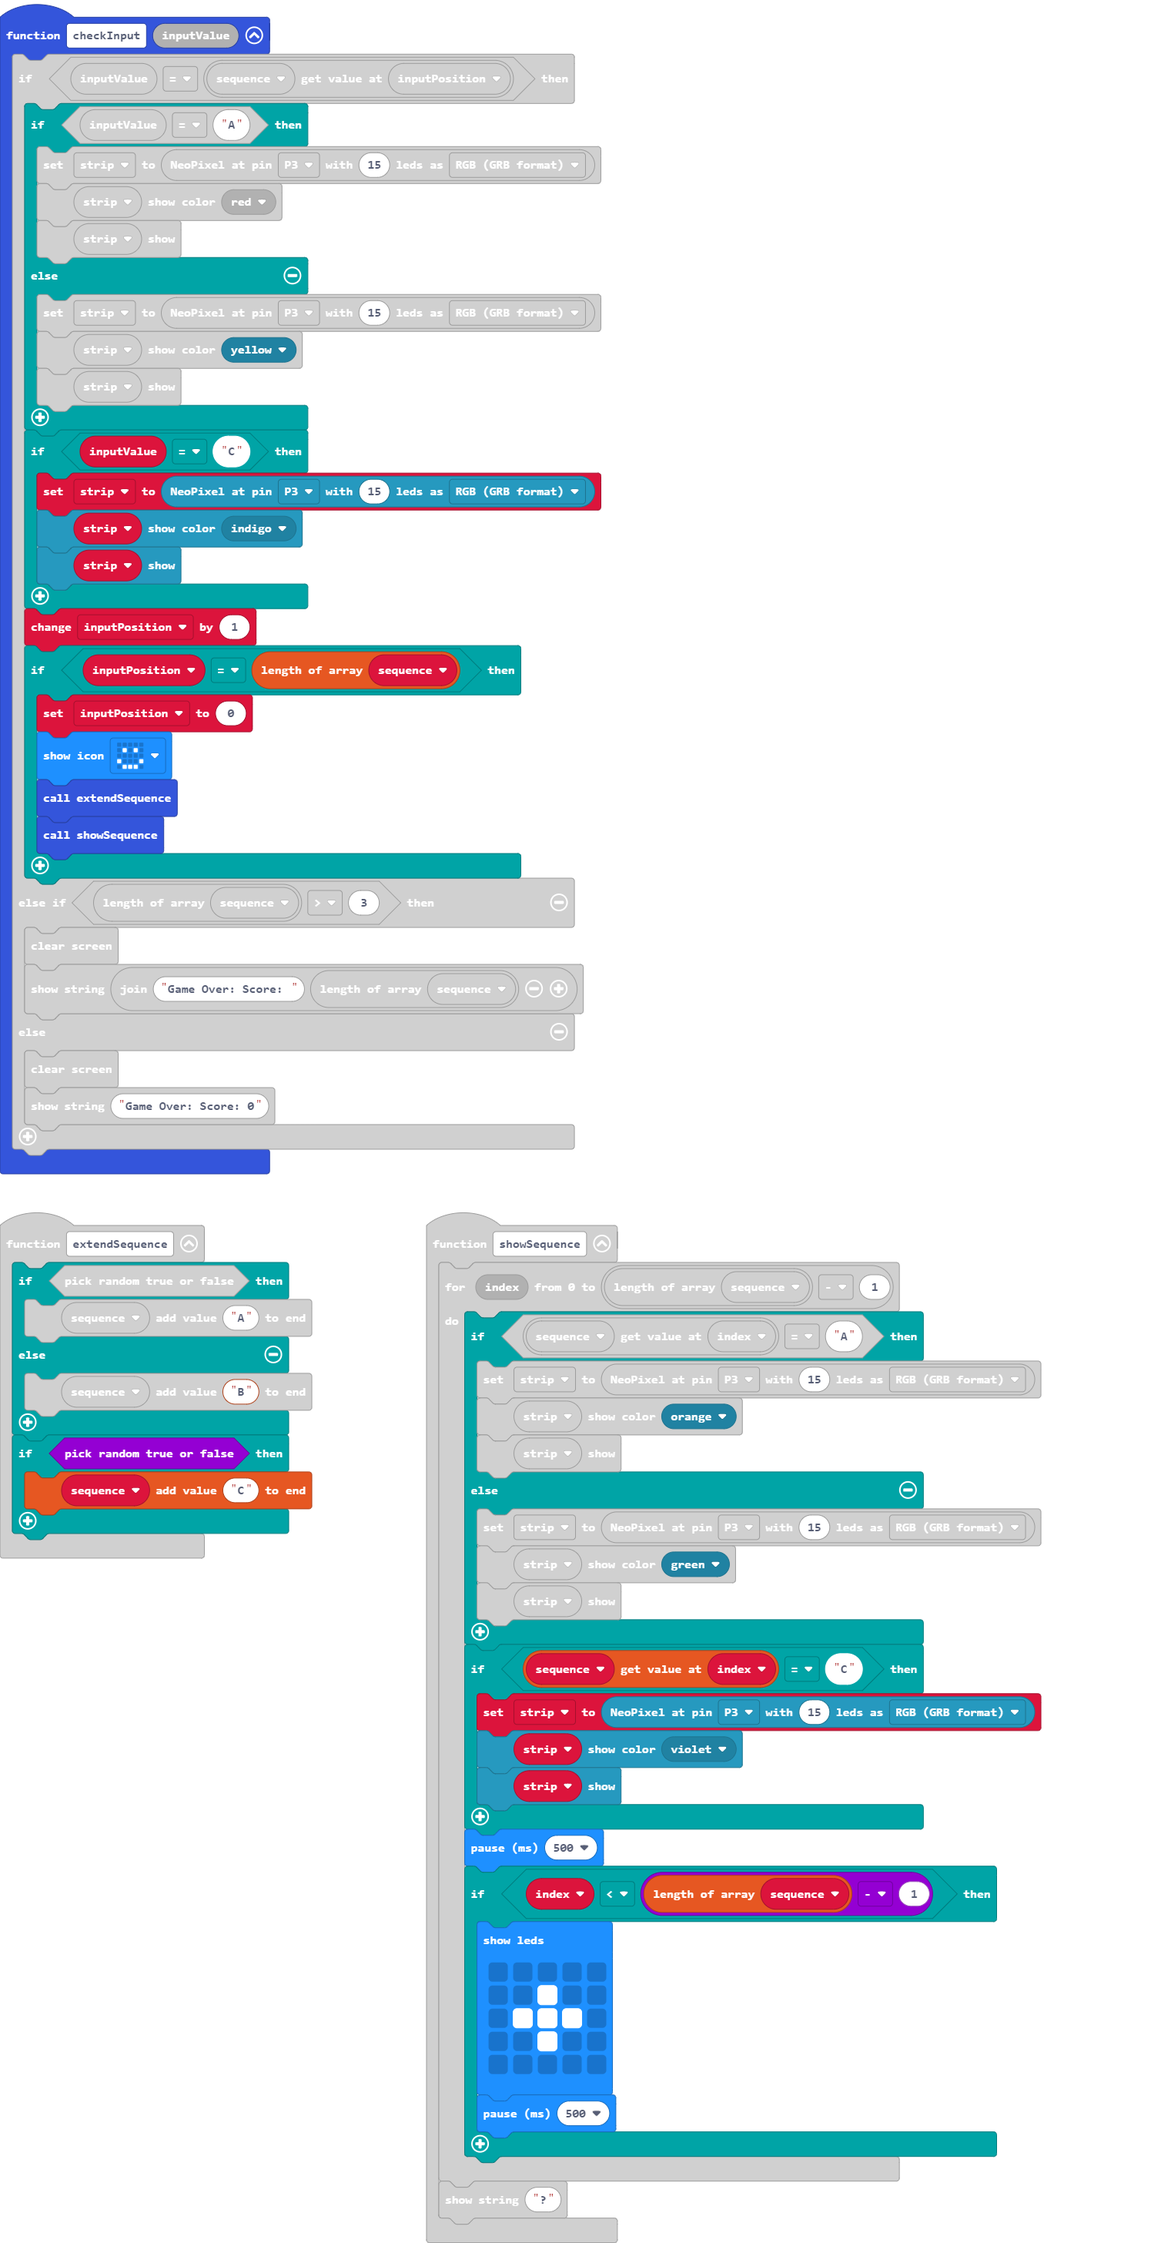
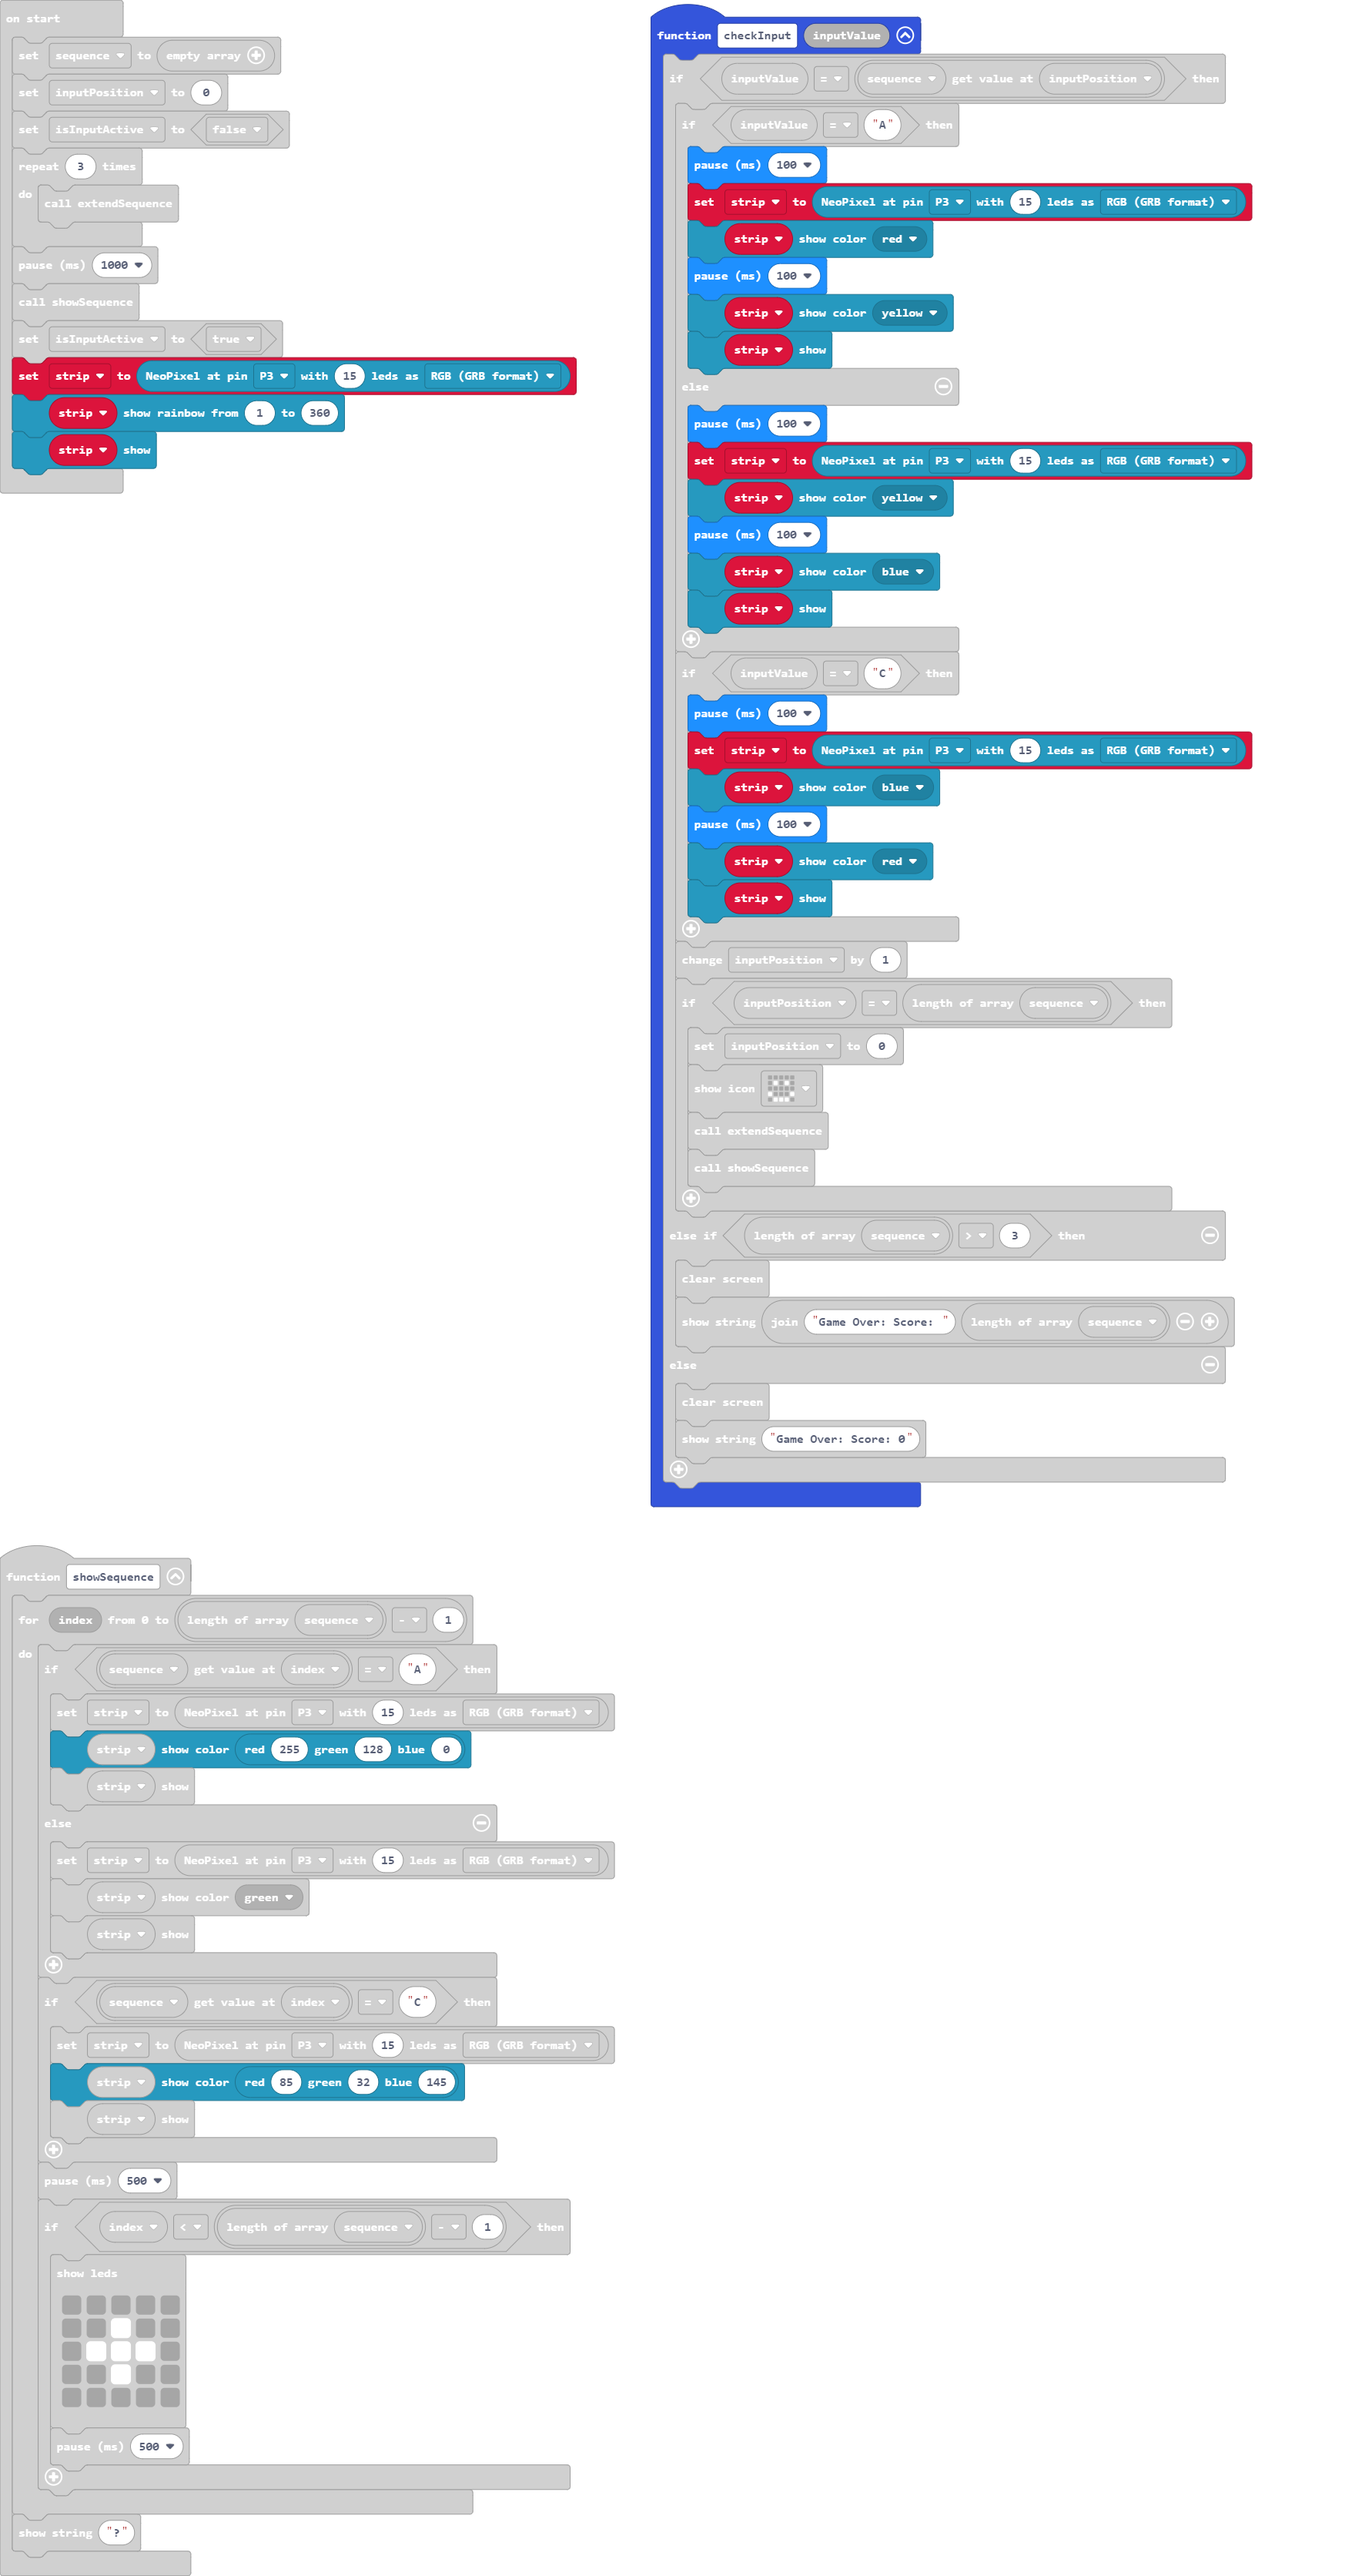
Update main.blocks, main.ts

diff --git a/main.ts b/main.ts
@@ -1,17 +1,26 @@
 function checkInput (inputValue: string) {
     if (inputValue == sequence[inputPosition]) {
         if (inputValue == "A") {
+            basic.pause(100)
             strip = neopixel.create(DigitalPin.P3, 15, NeoPixelMode.RGB)
             strip.showColor(neopixel.colors(NeoPixelColors.Red))
+            basic.pause(100)
+            strip.showColor(neopixel.colors(NeoPixelColors.Yellow))
             strip.show()
         } else {
+            basic.pause(100)
             strip = neopixel.create(DigitalPin.P3, 15, NeoPixelMode.RGB)
             strip.showColor(neopixel.colors(NeoPixelColors.Yellow))
+            basic.pause(100)
+            strip.showColor(neopixel.colors(NeoPixelColors.Blue))
             strip.show()
         }
         if (inputValue == "C") {
+            basic.pause(100)
             strip = neopixel.create(DigitalPin.P3, 15, NeoPixelMode.RGB)
-            strip.showColor(neopixel.colors(NeoPixelColors.Indigo))
+            strip.showColor(neopixel.colors(NeoPixelColors.Blue))
+            basic.pause(100)
+            strip.showColor(neopixel.colors(NeoPixelColors.Red))
             strip.show()
         }
         inputPosition += 1
@@ -40,7 +49,7 @@ function showSequence () {
     for (let index = 0; index <= sequence.length - 1; index++) {
         if (sequence[index] == "A") {
             strip = neopixel.create(DigitalPin.P3, 15, NeoPixelMode.RGB)
-            strip.showColor(neopixel.colors(NeoPixelColors.Orange))
+            strip.showColor(neopixel.rgb(255, 128, 0))
             strip.show()
         } else {
             strip = neopixel.create(DigitalPin.P3, 15, NeoPixelMode.RGB)
@@ -49,7 +58,7 @@ function showSequence () {
         }
         if (sequence[index] == "C") {
             strip = neopixel.create(DigitalPin.P3, 15, NeoPixelMode.RGB)
-            strip.showColor(neopixel.colors(NeoPixelColors.Violet))
+            strip.showColor(neopixel.rgb(85, 32, 145))
             strip.show()
         }
         basic.pause(500)
@@ -103,3 +112,6 @@ for (let index = 0; index < 3; index++) {
 basic.pause(1000)
 showSequence()
 isInputActive = true
+strip = neopixel.create(DigitalPin.P3, 15, NeoPixelMode.RGB)
+strip.showRainbow(1, 360)
+strip.show()
